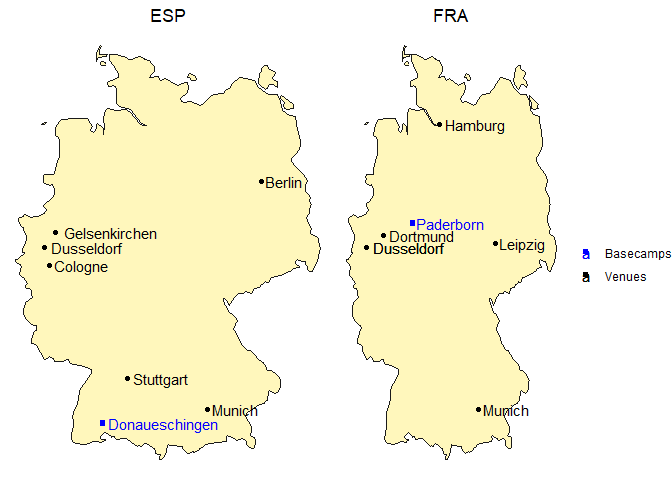
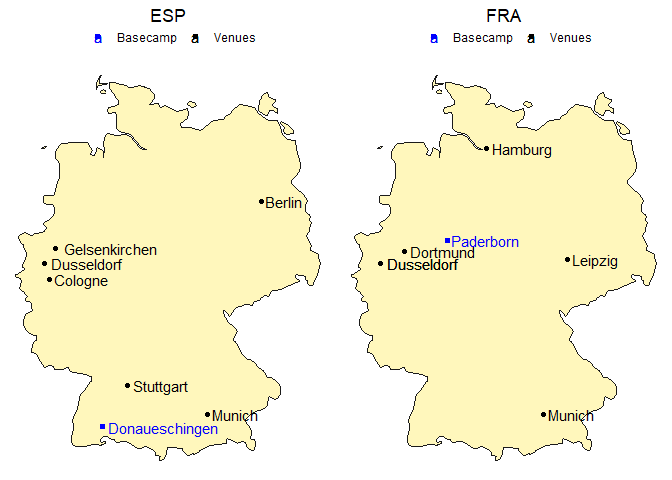
update

diff --git a/README.md b/README.md
@@ -31,6 +31,8 @@ my_teams <-
 The clash between Spain and France in Euro 2024 semifinals is set to be
 a thrilling and highly anticipated match.
 
+Here is a quantitative comparison of both teams.
+
 ### Mapping the Journey
 
 Here are the teams’ venues and training camps across the Euro 2024.
@@ -54,21 +56,22 @@ plot_team_journey <- function(team, show_legend = TRUE) {
     geom_point(data = match_data,
                aes(x = stadium_longitude, y = stadium_latitude, color = "Venues")) +
     geom_point(data = basecamp_data,
-               aes(x = long, y = lat, color = "Basecamps"), shape = 15) +
+               aes(x = long, y = lat, color = "Basecamp"), shape = 15) +
     geom_text(data = basecamp_data,
-              aes(label = basecamp, x = long, y = lat, color = "Basecamps"),
+              aes(label = basecamp, x = long, y = lat, color = "Basecamp"),
               hjust = -0.05) +
     geom_text(data = match_data,
               aes(label = stadium_city, x = stadium_longitude, y = stadium_latitude, color = "Venues"),
               hjust = -0.1) +
     scale_color_manual(name = "",
-                       values = c("Venues" = "black", "Basecamps" = "blue")) +
+                       values = c("Venues" = "black", "Basecamp" = "blue")) +
     theme_void() +
     # Use paste() function to enquote team variable
     ggtitle(paste0(team)) +
-    theme(plot.title = element_text(hjust = 0.5))
+    theme(plot.title = element_text(hjust = 0.5),
+          legend.position = "top")
   
-  # Show legend only for second plot
+  # Control if legend is shown or hidden
   if (show_legend) {
     p <- p
   } else {
@@ -79,7 +82,7 @@ plot_team_journey <- function(team, show_legend = TRUE) {
 }
 
 # Show both plots in the same pane
-grid.arrange(plot_team_journey(my_teams$code[1], show_legend = FALSE),
+grid.arrange(plot_team_journey(my_teams$code[1]),
              plot_team_journey(my_teams$code[2]),
              ncol = 2)
 ```
